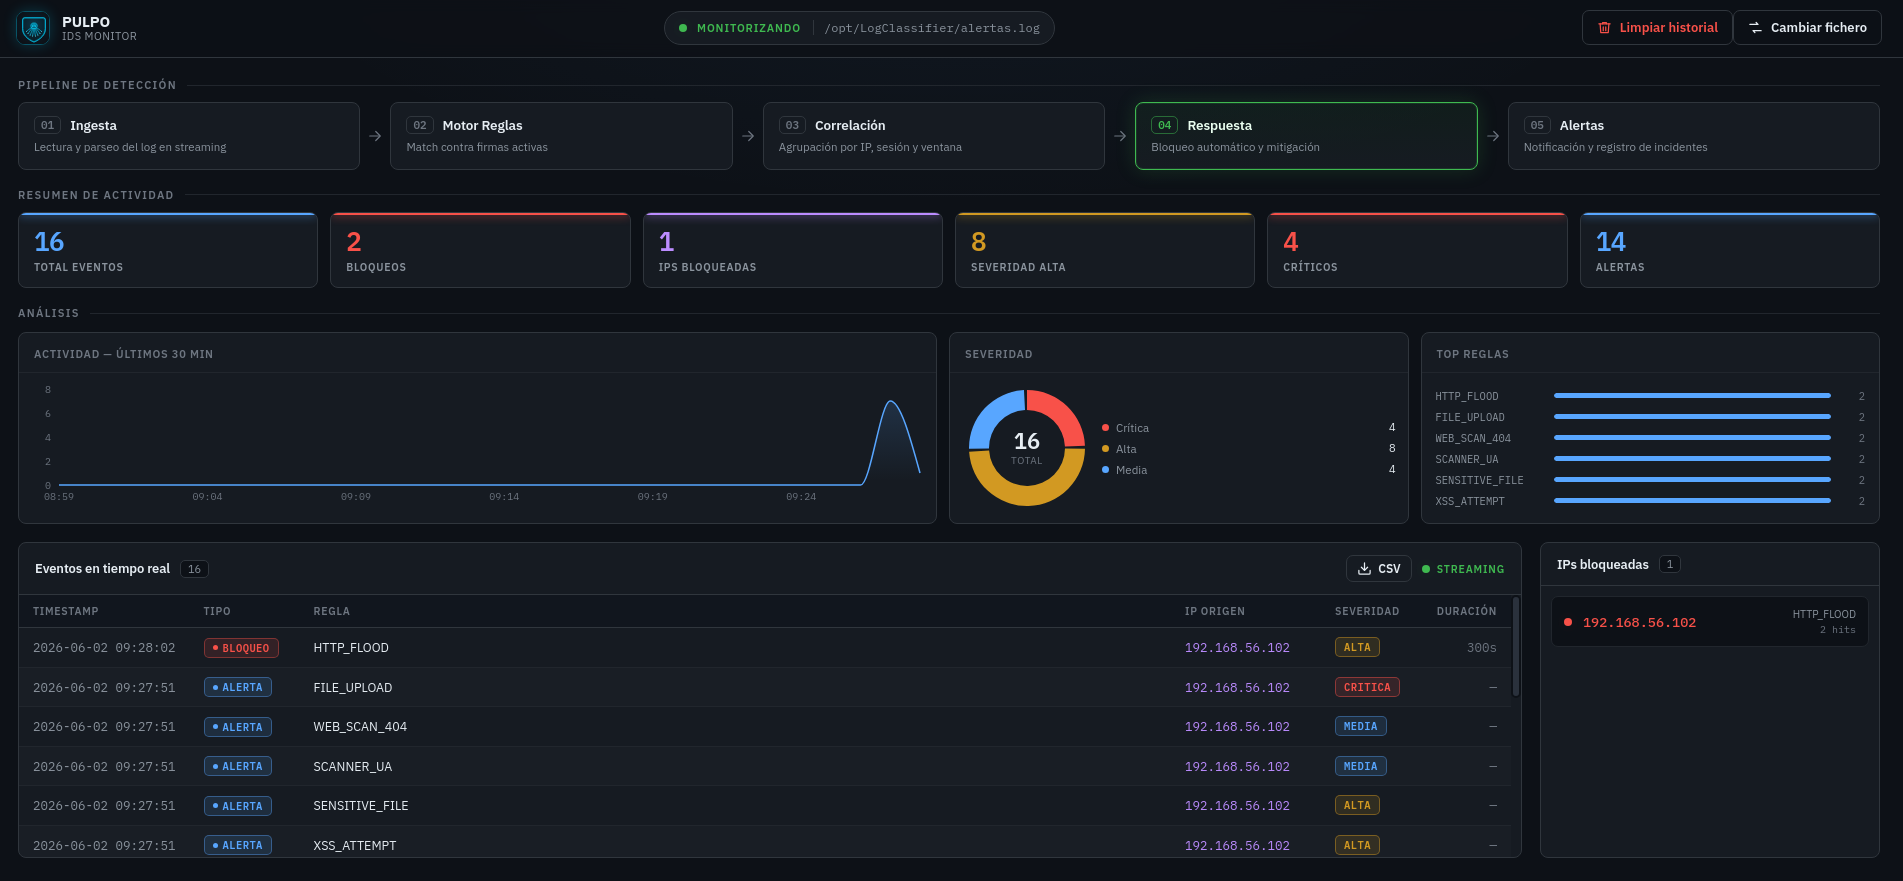
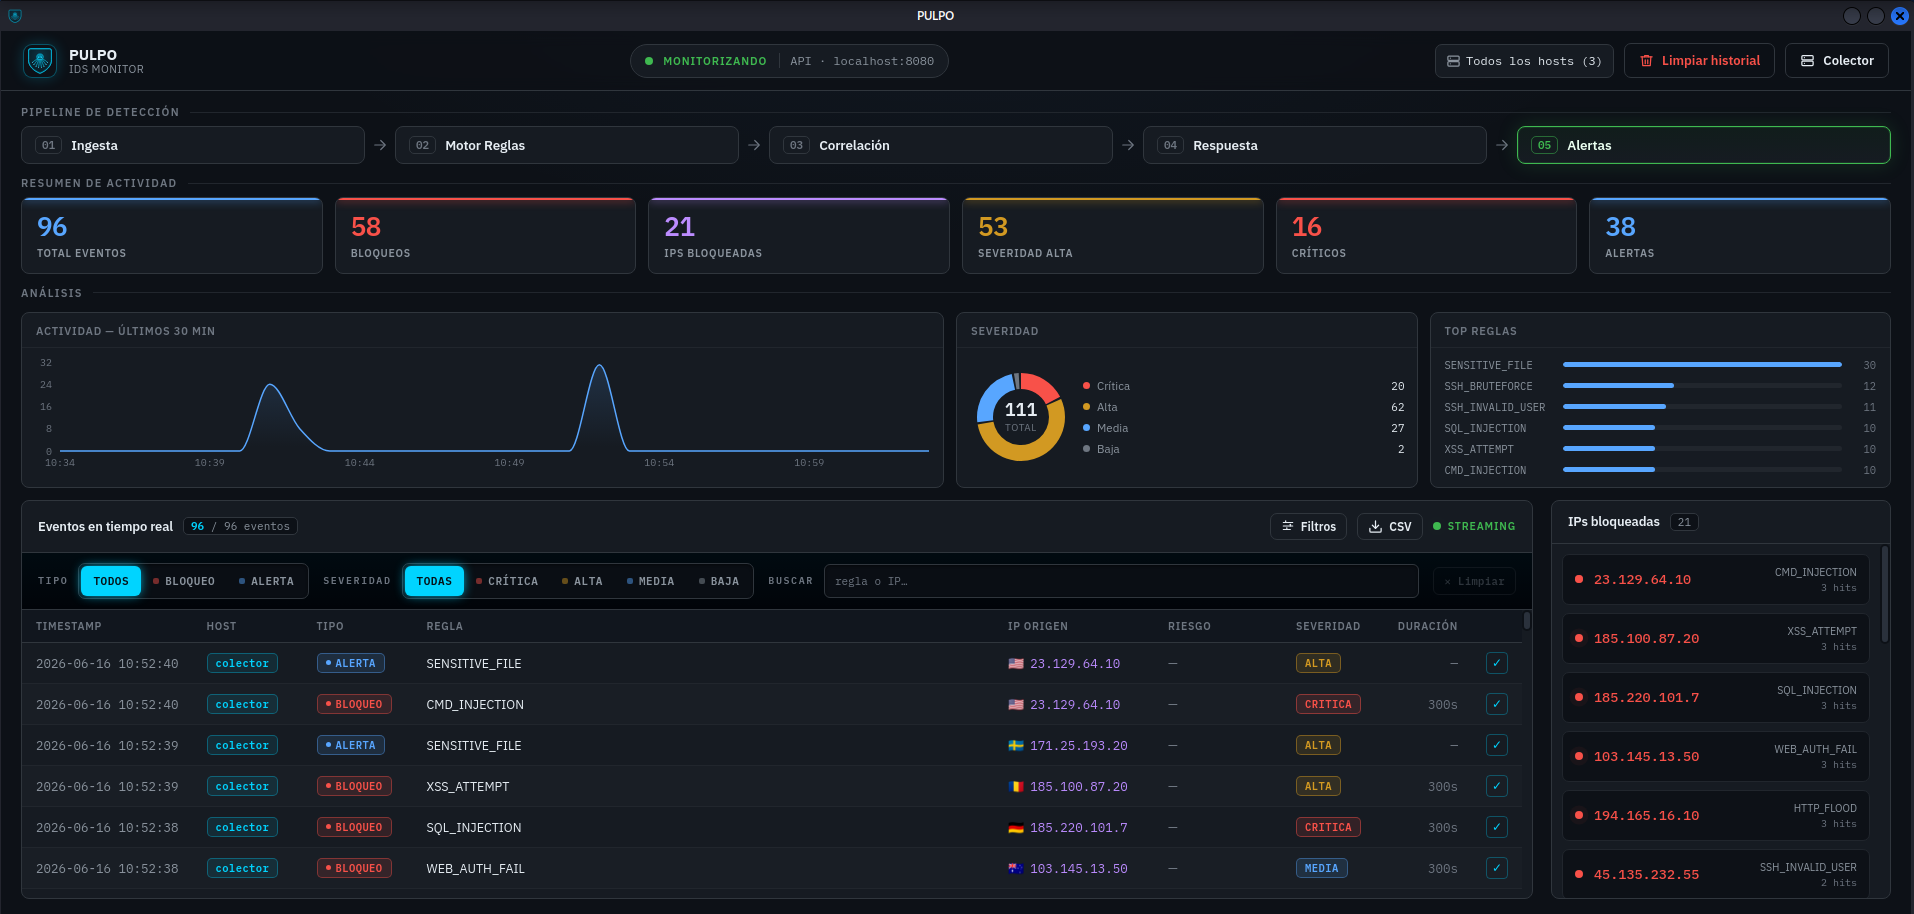
Actualiza captura del dashboard y documenta columna de threat intel

diff --git a/README.md b/README.md
@@ -36,7 +36,8 @@
 | **Auto-carga al iniciar** | Detecta la ruta del log automáticamente sin intervención del usuario |
 | **Persistencia de historial** | Las alertas se guardan en disco (`alerts.ndjson`); el historial se recupera entre sesiones sin que el IDS esté corriendo |
 | **Panel de análisis** | Timeline de los últimos 30 min, gráfico de distribución por severidad y top de reglas disparadas |
-| **Feed de alertas** | Tabla en vivo con tipo, regla, IP, severidad y timestamp; filas nuevas con flash de color |
+| **Feed de alertas** | Tabla en vivo con tipo, regla, IP (con bandera de país), riesgo, severidad y timestamp; filas nuevas con flash de color |
+| **Threat intelligence** | Columna de riesgo con score de AbuseIPDB y detecciones de VirusTotal por IP, y país de origen vía GeoIP |
 | **Exportar a CSV** | Descarga todas las alertas visibles como `.csv` con un clic |
 | **Panel de IPs bloqueadas** | Agrupa hits por IP con la regla que los disparó y contador de ocurrencias |
 | **Estadísticas** | Tarjetas de resumen con total, bloqueos, alertas y desglose por severidad |